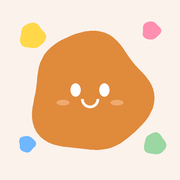
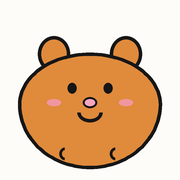
Web-App: Hamster-Sticker-Stil, Gesicht reagiert auf Rezeptqualität
Weißes Papier mit Punktraster, schwarze Linien, rosa Nase. Der Farbklecks
ist jetzt ein Hamster in der Zielfarbe: zufrieden unter dE 3, skeptisch
bis 8, Panik darüber. Palette als Mini-Hamster, Icon passend.

Claude-Session: https://claude.ai/code/session_01GXU9a7aiRigFrKSRRgJjFa

diff --git a/web/index.html b/web/index.html
@@ -16,62 +16,83 @@
 </script>
 <style>
   :root {
-    --paper:#fbf2ec; --ink:#3a2a2e; --muted:#9a8087; --hair:rgba(58,42,46,.13); --soft:rgba(58,42,46,.05);
-    --rose:#f4c7cf; --rose-ink:#b2415c; --btn:#e98aa1;
+    --paper:#fdfcf8; --ink:#161616; --muted:#7c7a74; --hair:rgba(22,22,22,.18); --soft:rgba(22,22,22,.05);
+    --rose:#fbd3e0; --rose-ink:#c9437a; --btn:#161616; --nose:#f7a6c1; --line:2.5px;
     --round: ui-rounded, "SF Pro Rounded", -apple-system, system-ui, "Helvetica Neue", sans-serif;
     --serif: ui-serif, "New York", Georgia, serif;
     --mono: ui-monospace, "SF Mono", Menlo, monospace;
     --ok:#5fae74; --mid:#e0b04a; --bad:#d9655a;
   }
   @media (prefers-color-scheme: dark) {
-    :root { --paper:#221b1d; --ink:#f6e9ec; --muted:#a8929a; --hair:rgba(246,233,236,.16); --soft:rgba(246,233,236,.06);
-      --rose:#5a3540; --rose-ink:#f3b4c3; --btn:#d97a93; }
+    :root { --paper:#1a1a19; --ink:#f3f1ea; --muted:#9d9a90; --hair:rgba(243,241,234,.2); --soft:rgba(243,241,234,.06);
+      --rose:#4a2a38; --rose-ink:#f3a9c6; --btn:#f3f1ea; }
   }
   * { box-sizing:border-box; -webkit-tap-highlight-color:transparent; }
   html { -webkit-text-size-adjust:100%; }
   body { margin:0; background:var(--paper); color:var(--ink); font-family:var(--round); line-height:1.45;
-    background-image:radial-gradient(circle at 20% 0%, rgba(244,199,207,.35), transparent 45%), radial-gradient(circle at 90% 20%, rgba(250,224,150,.25), transparent 40%); }
-  @media (prefers-color-scheme: dark) { body { background-image:radial-gradient(circle at 20% 0%, rgba(217,122,147,.12), transparent 45%), radial-gradient(circle at 90% 20%, rgba(250,224,150,.06), transparent 40%); } }
+    background-image:radial-gradient(var(--hair) 1px, transparent 1.2px); background-size:22px 22px; }
   main { max-width:440px; margin:0 auto; padding:calc(22px + env(safe-area-inset-top)) 22px calc(32px + env(safe-area-inset-bottom)); }
   input, button { font:inherit; color:inherit; }
 
   /* Widmung */
   header { text-align:center; margin:6px 0 26px; }
-  .eyebrow { margin:0; font-size:.8rem; letter-spacing:.18em; text-transform:uppercase; color:var(--rose-ink); display:inline-flex; align-items:center; gap:8px; }
+  .eyebrow { margin:0; font-size:.8rem; letter-spacing:.18em; text-transform:uppercase; color:var(--rose-ink); display:inline-flex; align-items:center; gap:8px; font-weight:700; }
   .eyebrow::before, .eyebrow::after { content:"\2661"; font-size:.9rem; letter-spacing:0; }
-  h1 { font-family:var(--serif); font-weight:500; font-size:2.35rem; letter-spacing:-.01em; margin:4px 0 0; line-height:1.1; }
+  h1 { font-family:var(--round); font-weight:900; font-size:2.2rem; text-transform:uppercase; letter-spacing:.02em; margin:6px 0 0; line-height:1.05; }
   .dedi { font-size:.95rem; margin:8px 0 0; color:var(--muted); }
   .dedi b { font-weight:600; color:var(--ink); }
-  .tag { display:inline-block; margin-top:12px; padding:5px 12px; border-radius:999px; background:var(--rose); color:var(--rose-ink); font-size:.75rem; letter-spacing:.08em; text-transform:uppercase; font-weight:600; }
+  .tag { display:inline-block; margin-top:12px; padding:5px 12px; border-radius:14px 18px 16px 20px / 18px 14px 20px 16px; border:var(--line) solid var(--ink); background:var(--rose); color:var(--ink); font-size:.75rem; letter-spacing:.08em; text-transform:uppercase; font-weight:800; transform:rotate(-2deg); }
 
-  /* Farbklecks mit Gesicht und schwebenden Tupfern */
-  .stage { position:relative; height:300px; display:flex; justify-content:center; align-items:center; margin:0 0 6px; }
-  .blob { position:relative; width:220px; height:220px; cursor:pointer;
-    border-radius:58% 42% 55% 45% / 48% 56% 44% 52%;
-    animation:morph 12s ease-in-out infinite alternate; transition:background .25s, box-shadow .25s; }
-  .blob input { position:absolute; inset:0; width:100%; height:100%; opacity:0; -webkit-appearance:none; appearance:none; border:none; padding:0; cursor:pointer; }
-  .face { position:absolute; left:50%; top:50%; width:84px; height:50px; margin:-14px 0 0 -42px; pointer-events:none; }
-  .face .eye { position:absolute; top:6px; width:11px; height:14px; border-radius:50%; background:var(--face); animation:blink 5.5s infinite; }
-  .face .eye.l { left:14px; } .face .eye.r { right:14px; animation-delay:.08s; }
-  .face .mouth { position:absolute; left:50%; top:24px; width:22px; height:11px; margin-left:-11px; border:3px solid var(--face); border-top:none; border-radius:0 0 22px 22px; box-sizing:border-box; }
-  .face .cheek { position:absolute; top:22px; width:14px; height:8px; border-radius:50%; background:var(--face); opacity:.28; }
-  .face .cheek.l { left:0; } .face .cheek.r { right:0; }
+  /* Hamster in der Zielfarbe, Gesicht reagiert auf das Rezept */
+  .stage { position:relative; height:310px; display:flex; justify-content:center; align-items:flex-end; margin:0 0 6px; padding-bottom:34px; }
+  .ham { position:relative; width:226px; height:206px; cursor:pointer; border:var(--line) solid var(--ink);
+    border-radius:46% 54% 44% 46% / 70% 66% 34% 30%; transition:background .25s, box-shadow .25s; animation:breathe 4s ease-in-out infinite; }
+  .ham::before, .ham::after { content:""; position:absolute; top:-16px; width:46px; height:44px; background:inherit; border:var(--line) solid var(--ink);
+    border-radius:60% 50% 50% 50% / 70% 70% 30% 30%; z-index:-1; }
+  .ham::before { left:30px; transform:rotate(-14deg); }
+  .ham::after { right:30px; transform:rotate(14deg); border-radius:50% 60% 50% 50% / 70% 70% 30% 30%; }
+  .ham input { position:absolute; inset:0; width:100%; height:100%; opacity:0; -webkit-appearance:none; appearance:none; border:none; padding:0; cursor:pointer; }
+  @keyframes breathe { 0%,100% { transform:scale(1); } 50% { transform:scale(1.02) translateY(-2px); } }
+  .face { position:absolute; left:50%; top:46%; width:120px; height:80px; margin-left:-60px; pointer-events:none; }
+  .ham { --face:var(--ink); }
+  .face > span { position:absolute; display:block; }
+  .eye { top:0; width:13px; height:15px; border-radius:50%; background:var(--face); animation:blink 6s infinite; transition:height .2s, border-radius .2s; }
+  .eye.l { left:26px; } .eye.r { right:26px; animation-delay:.07s; }
+  .brow { top:-12px; width:22px; height:4px; background:var(--face); border-radius:2px; opacity:0; transition:opacity .2s; }
+  .brow.l { left:20px; transform:rotate(18deg); } .brow.r { right:20px; transform:rotate(-18deg); }
+  .nose { left:50%; top:18px; width:20px; height:15px; margin-left:-10px; background:var(--nose); border:2px solid var(--face);
+    border-radius:50% 50% 50% 50% / 30% 30% 70% 70%; }
+  .mouth { left:50%; top:36px; width:30px; height:12px; margin-left:-15px; border:3px solid var(--face); border-top:none; border-radius:0 0 30px 30px; box-sizing:border-box;
+    background:transparent; transition:all .25s; }
+  .cheek { top:22px; width:16px; height:9px; border-radius:50%; background:var(--nose); opacity:.55; }
+  .cheek.l { left:0; } .cheek.r { right:0; }
+  .paw { position:absolute; bottom:18px; width:10px; height:12px; border:2.5px solid var(--face); border-right:none; border-radius:50% 0 0 50%; opacity:.7; }
+  .paw.l { left:62px; } .paw.r { right:62px; }
+  /* skeptisch */
+  .ham.mid .eye { height:6px; border-radius:40%; }
+  .ham.mid .mouth { width:26px; height:3px; margin-left:-13px; border:none; background:var(--face); border-radius:2px; top:44px; }
+  .ham.mid .cheek { opacity:0; }
+  .ham.mid .brow { opacity:1; }
+  .ham.mid .brow.l { transform:rotate(-10deg); } .ham.mid .brow.r { transform:rotate(10deg); }
+  /* Panik */
+  .ham.bad .eye { width:17px; height:19px; background:#fff; box-shadow:inset 0 0 0 2.5px var(--face); animation:none; }
+  .ham.bad .eye::after { content:""; position:absolute; left:5px; top:6px; width:6px; height:7px; border-radius:50%; background:var(--face); }
+  .ham.bad .mouth { width:46px; height:40px; margin-left:-23px; top:34px; border:3px solid var(--face); border-radius:40% 40% 50% 50% / 30% 30% 70% 70%; background:#1a1a1a; overflow:hidden; }
+  .ham.bad .mouth::after { content:""; position:absolute; left:8px; bottom:-10px; width:26px; height:22px; border-radius:50%; background:var(--nose); }
+  .ham.bad .cheek { opacity:0; }
+  .ham.bad .brow { opacity:1; }
+  .ham.bad .brow.l { transform:rotate(-28deg); top:-16px; } .ham.bad .brow.r { transform:rotate(28deg); top:-16px; }
   @keyframes blink { 0%,92%,100% { transform:scaleY(1); } 95% { transform:scaleY(.1); } }
   .hint { position:absolute; left:50%; bottom:4px; transform:translateX(-50%); white-space:nowrap; font-size:.9rem; color:var(--muted); pointer-events:none; }
-  .dot { position:absolute; border-radius:50% 50% 46% 54% / 54% 46% 54% 46%; pointer-events:none; animation:float 6s ease-in-out infinite; opacity:.9; }
+  .dot { position:absolute; border-radius:50% 50% 46% 54% / 54% 46% 54% 46%; pointer-events:none; animation:float 6s ease-in-out infinite; border:2px solid var(--ink); }
   .dot.a { width:26px; height:26px; left:8%; top:18%; background:#ffd84a; }
   .dot.b { width:18px; height:18px; right:10%; top:14%; background:#ff8fb0; animation-delay:-1.5s; }
-  .dot.c { width:14px; height:14px; left:14%; bottom:26%; background:#6fb7ff; animation-delay:-3s; }
-  .dot.d { width:22px; height:22px; right:12%; bottom:20%; background:#9ad7a2; animation-delay:-4.5s; }
+  .dot.c { width:14px; height:14px; left:14%; bottom:30%; background:#6fb7ff; animation-delay:-3s; }
+  .dot.d { width:22px; height:22px; right:12%; bottom:24%; background:#9ad7a2; animation-delay:-4.5s; }
   .dot.e { width:10px; height:10px; left:30%; top:4%; background:#c99bff; animation-delay:-2.2s; }
-  .dot.f { width:12px; height:12px; right:6%; bottom:30%; background:#ffb36b; animation-delay:-5s; }
+  .dot.f { width:12px; height:12px; right:6%; bottom:36%; background:#ffb36b; animation-delay:-5s; }
   @keyframes float { 0%,100% { transform:translateY(0) rotate(0); } 50% { transform:translateY(-9px) rotate(12deg); } }
-  @keyframes morph {
-    0%   { border-radius:58% 42% 55% 45% / 48% 56% 44% 52%; }
-    50%  { border-radius:45% 55% 48% 52% / 56% 44% 56% 44%; }
-    100% { border-radius:52% 48% 42% 58% / 44% 52% 48% 56%; }
-  }
-  @media (prefers-reduced-motion: reduce) { .blob, .dot, .face .eye { animation:none; } }
+  @media (prefers-reduced-motion: reduce) { .ham, .dot, .eye { animation:none; } }
 
   .hexline { text-align:center; margin:0 0 14px; }
   .hexline input { width:9ch; text-align:center; border:none; background:none; font-family:var(--mono); font-size:1rem; letter-spacing:.06em;
@@ -79,7 +100,7 @@
   .hexline input:focus { color:var(--ink); border-bottom-color:var(--hair); }
 
   .controls { display:flex; justify-content:center; align-items:center; gap:14px; }
-  .round { width:46px; height:46px; border-radius:50%; border:none; background:var(--rose); color:var(--rose-ink); display:inline-flex; align-items:center;
+  .round { width:46px; height:46px; border-radius:50% 46% 54% 50% / 46% 54% 46% 54%; border:var(--line) solid var(--ink); background:var(--paper); color:var(--ink); display:inline-flex; align-items:center;
     justify-content:center; cursor:pointer; font-size:1.4rem; font-weight:500; line-height:1; transition:transform .1s; }
   .round:active { transform:scale(.92); }
   .round svg { width:20px; height:20px; }
@@ -93,18 +114,18 @@
   .photohint { display:none; text-align:center; font-size:.85rem; color:var(--muted); margin:8px 0 0; }
 
   /* Abschnitte */
-  section { margin-top:34px; padding-top:24px; border-top:1px dashed var(--hair); }
-  h2 { font-family:var(--serif); font-weight:500; font-size:1.4rem; margin:0 0 14px; }
+  section { margin-top:34px; padding-top:24px; border-top:2px dashed var(--hair); }
+  h2 { font-family:var(--round); font-weight:900; font-size:1.3rem; text-transform:uppercase; letter-spacing:.02em; margin:0 0 14px; }
   h2 small { font-family:var(--round); font-size:.8rem; color:var(--muted); margin-left:10px; font-weight:400; }
 
   /* Rezept als Farbtupfer */
   .ing { display:grid; grid-template-columns:84px 1fr auto; align-items:center; gap:12px; min-height:52px; }
-  .ing .dab { display:block; justify-self:center; border-radius:50% 50% 48% 52% / 52% 48% 52% 48%; box-shadow:inset 0 0 0 1px var(--hair); transition:width .3s, height .3s; }
+  .ing .dab { display:block; justify-self:center; border-radius:50% 50% 48% 52% / 52% 48% 52% 48%; border:var(--line) solid var(--ink); transition:width .3s, height .3s; }
   .ing .name { font-size:1.02rem; }
   .ing .g { font-family:var(--serif); font-size:1.45rem; font-variant-numeric:tabular-nums; }
   .ing .g small { font-family:var(--round); font-size:.85rem; color:var(--muted); margin-left:3px; }
-  .compare { display:flex; align-items:center; gap:14px; margin-top:18px; padding:14px 16px; border-radius:22px; background:var(--soft); }
-  .twin { flex:none; width:46px; height:46px; border-radius:50%; overflow:hidden; display:flex; box-shadow:inset 0 0 0 1px var(--hair); }
+  .compare { display:flex; align-items:center; gap:14px; margin-top:18px; padding:14px 16px; border-radius:18px 22px 20px 24px / 22px 18px 24px 20px; border:var(--line) solid var(--ink); background:var(--paper); }
+  .twin { flex:none; width:46px; height:46px; border-radius:50%; overflow:hidden; display:flex; border:var(--line) solid var(--ink); }
   .twin span { flex:1; }
   .rating { margin:0; font-size:.98rem; line-height:1.35; }
   .rating b { font-weight:600; font-size:.76rem; display:block; color:var(--muted); letter-spacing:.04em; margin-bottom:2px; }
@@ -117,20 +138,21 @@
   .dabs:empty + .empty { display:block; }
   .empty { display:none; color:var(--muted); margin:0; font-size:.95rem; }
   .rc { position:relative; width:74px; text-align:center; background:none; border:none; padding:0; cursor:pointer; }
-  .rc .chip { display:block; width:56px; height:56px; margin:0 auto 6px; border-radius:50% 50% 46% 54% / 54% 46% 54% 46%; box-shadow:inset 0 0 0 1px var(--hair); transition:transform .15s; }
+  .rc .chip { display:block; position:relative; width:56px; height:52px; margin:0 auto 6px; border:var(--line) solid var(--ink); border-radius:46% 54% 44% 46% / 70% 66% 34% 30%; transition:transform .15s; }
+  .rc .chip::before { content:""; position:absolute; left:50%; top:34%; width:5px; height:6px; margin-left:-11px; border-radius:50%; background:var(--ink); box-shadow:17px 0 0 var(--ink); }
+  .rc .chip::after { content:""; position:absolute; left:50%; top:52%; width:9px; height:7px; margin-left:-4.5px; background:var(--nose); border:1.5px solid var(--ink); border-radius:50% 50% 50% 50% / 30% 30% 70% 70%; }
   .rc:active .chip { transform:scale(.94); }
   .rc .n { display:-webkit-box; -webkit-line-clamp:2; -webkit-box-orient:vertical; overflow:hidden; font-size:.76rem; line-height:1.25; color:var(--muted); }
-  .rc .del { position:absolute; top:-6px; right:0; width:22px; height:22px; border-radius:50%; border:none; background:var(--paper); color:var(--muted);
-    box-shadow:0 0 0 1px var(--hair); font-size:.9rem; line-height:22px; cursor:pointer; padding:0; }
+  .rc .del { position:absolute; top:-6px; right:0; width:22px; height:22px; border-radius:50%; border:2px solid var(--ink); background:var(--paper); color:var(--ink); font-size:.9rem; line-height:22px; cursor:pointer; padding:0; }
   .save { display:flex; gap:10px; margin-top:22px; }
   .save input { flex:1; min-width:0; border:none; border-bottom:1px solid var(--hair); background:none; padding:8px 2px; font-size:1rem; outline:none; }
-  .save input:focus { border-bottom-color:var(--rose-ink); }
-  .btn { padding:10px 18px; border-radius:999px; border:none; background:var(--btn); color:#fff; font-size:.95rem; font-weight:600; cursor:pointer; }
-  .btn.ghost { background:var(--rose); color:var(--rose-ink); }
-  .btn.warn { background:none; box-shadow:inset 0 0 0 1px var(--bad); color:var(--bad); }
+  .save input:focus { border-bottom-color:var(--ink); }
+  .btn { padding:10px 18px; border-radius:18px 22px 20px 24px / 22px 18px 24px 20px; border:var(--line) solid var(--ink); background:var(--btn); color:var(--paper); font-size:.95rem; font-weight:700; cursor:pointer; }
+  .btn.ghost { background:var(--paper); color:var(--ink); }
+  .btn.warn { background:var(--paper); border-color:var(--bad); color:var(--bad); }
   .btn:active { opacity:.85; }
   .toast { position:fixed; left:50%; bottom:calc(28px + env(safe-area-inset-bottom)); transform:translate(-50%, 20px); opacity:0; padding:10px 18px;
-    border-radius:999px; background:var(--ink); color:var(--paper); font-size:.9rem; pointer-events:none; transition:opacity .25s, transform .25s; z-index:9; }
+    border-radius:18px 22px 20px 24px / 22px 18px 24px 20px; background:var(--ink); color:var(--paper); font-size:.9rem; font-weight:700; pointer-events:none; transition:opacity .25s, transform .25s; z-index:9; }
   .toast.show { opacity:1; transform:translate(-50%, 0); }
 
   /* Einstellungen, zugeklappt */
@@ -171,9 +193,15 @@
 
   <div class="stage">
     <span class="dot a"></span><span class="dot b"></span><span class="dot c"></span><span class="dot d"></span><span class="dot e"></span><span class="dot f"></span>
-    <div class="blob" id="hero">
+    <div class="ham ok" id="hero">
       <input type="color" id="color" value="#e08a3c" aria-label="Farbe wählen">
-      <span class="face"><span class="cheek l"></span><span class="cheek r"></span><span class="eye l"></span><span class="eye r"></span><span class="mouth"></span></span>
+      <span class="face">
+        <span class="brow l"></span><span class="brow r"></span>
+        <span class="cheek l"></span><span class="cheek r"></span>
+        <span class="eye l"></span><span class="eye r"></span>
+        <span class="nose"></span><span class="mouth"></span>
+      </span>
+      <span class="paw l"></span><span class="paw r"></span>
     </div>
     <span class="hint">tipp mich an und such dir eine Farbe aus</span>
   </div>
@@ -294,7 +322,7 @@
     $('hero').style.background = hex;
     $('hero').style.boxShadow = '0 24px 48px -18px ' + rgba(rgb, .55);
     var lum = (0.299 * rgb[0] + 0.587 * rgb[1] + 0.114 * rgb[2]) / 255;
-    $('hero').style.setProperty('--face', lum > 0.62 ? 'rgba(40,25,30,.75)' : 'rgba(255,255,255,.9)');
+    $('hero').style.setProperty('--face', lum > 0.45 ? '#161616' : '#ffffff');
     $('swPred').style.background = farbmath.rgbToHex(rec.predictedRgb);
     var tb = $('rows'); tb.innerHTML = '';
     rec.rows.forEach(function (r) {
@@ -309,7 +337,9 @@
     var dE = farbmath.deltaE(farbmath.rgbToLab(rgb), farbmath.rgbToLab(rec.predictedRgb));
     var rt = $('rating');
     rt.innerHTML = '<b>Ziel · Vorhersage · ΔE ' + dE.toFixed(1).replace('.', ',') + '</b>' + farbmath.rating(dE);
-    rt.className = 'rating ' + (dE < 3 ? 'ok' : dE < 8 ? 'mid' : 'bad');
+    var mood = dE < 3 ? 'ok' : dE < 8 ? 'mid' : 'bad';
+    rt.className = 'rating ' + mood;
+    $('hero').className = 'ham ' + mood;
     var payload = { total_g: grams, grams: {} };
     rec.rows.forEach(function (r) { payload.grams[r.id] = r.grams; });
     $('json').textContent = JSON.stringify(payload, null, 2);
